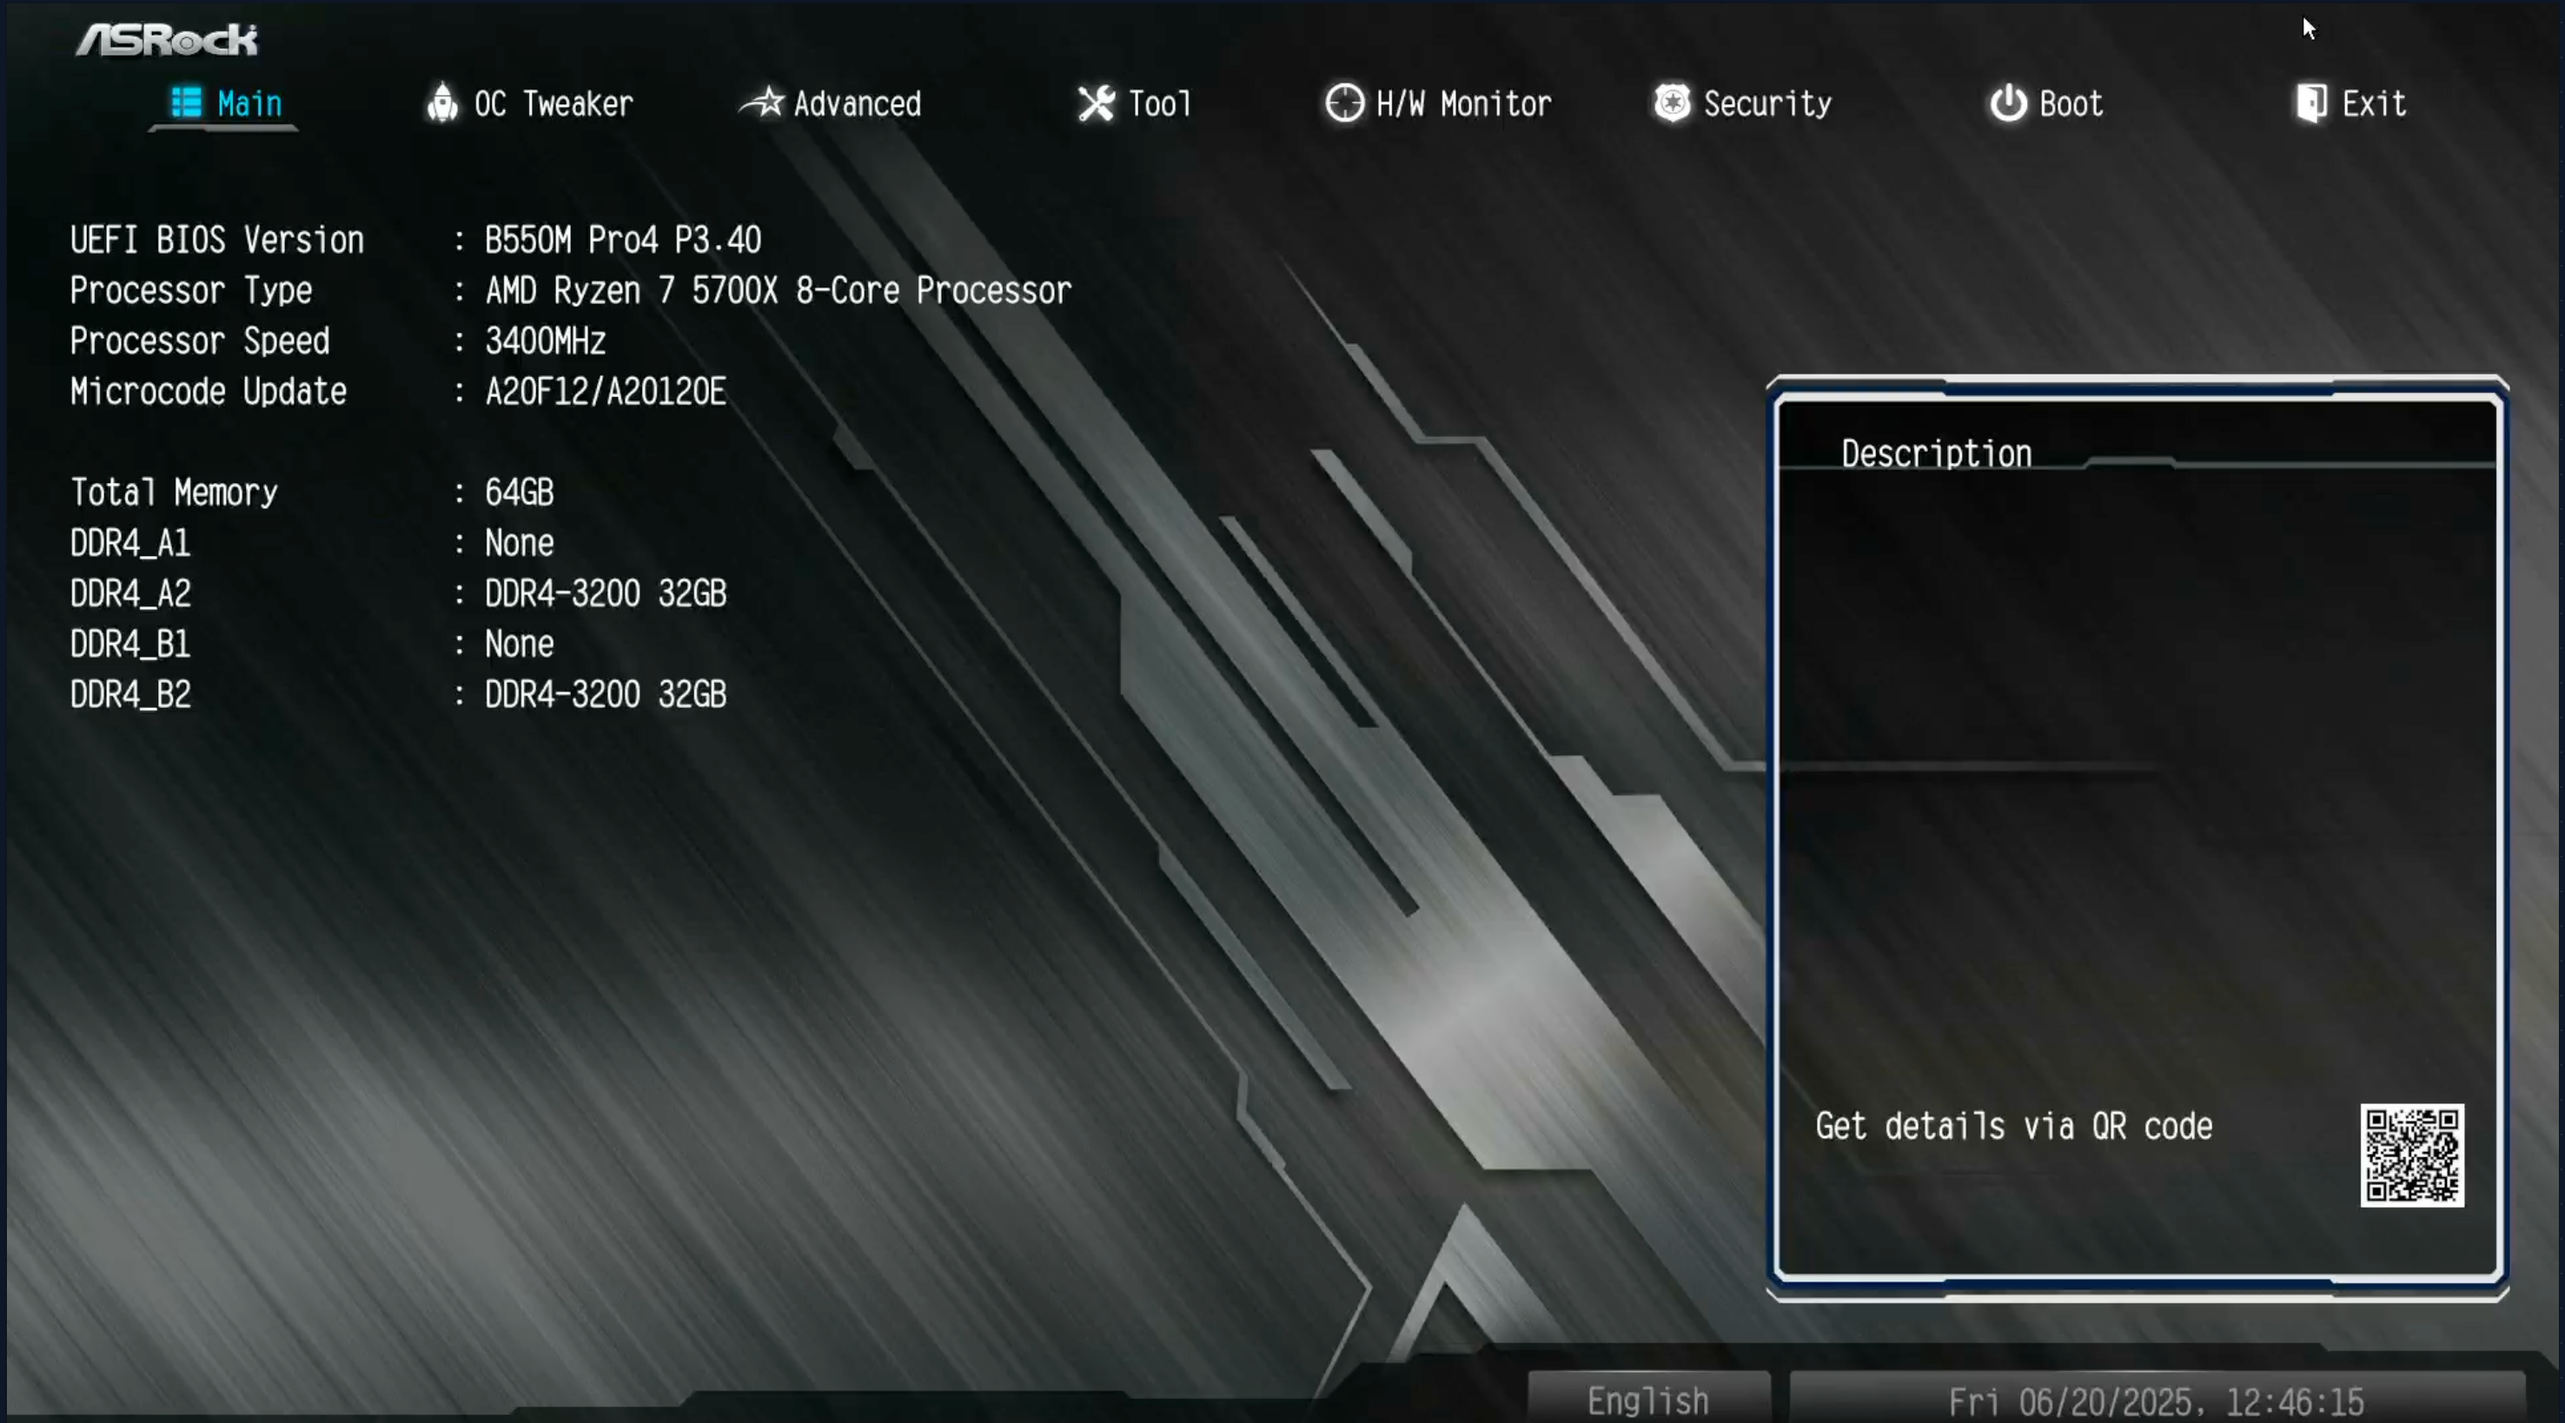
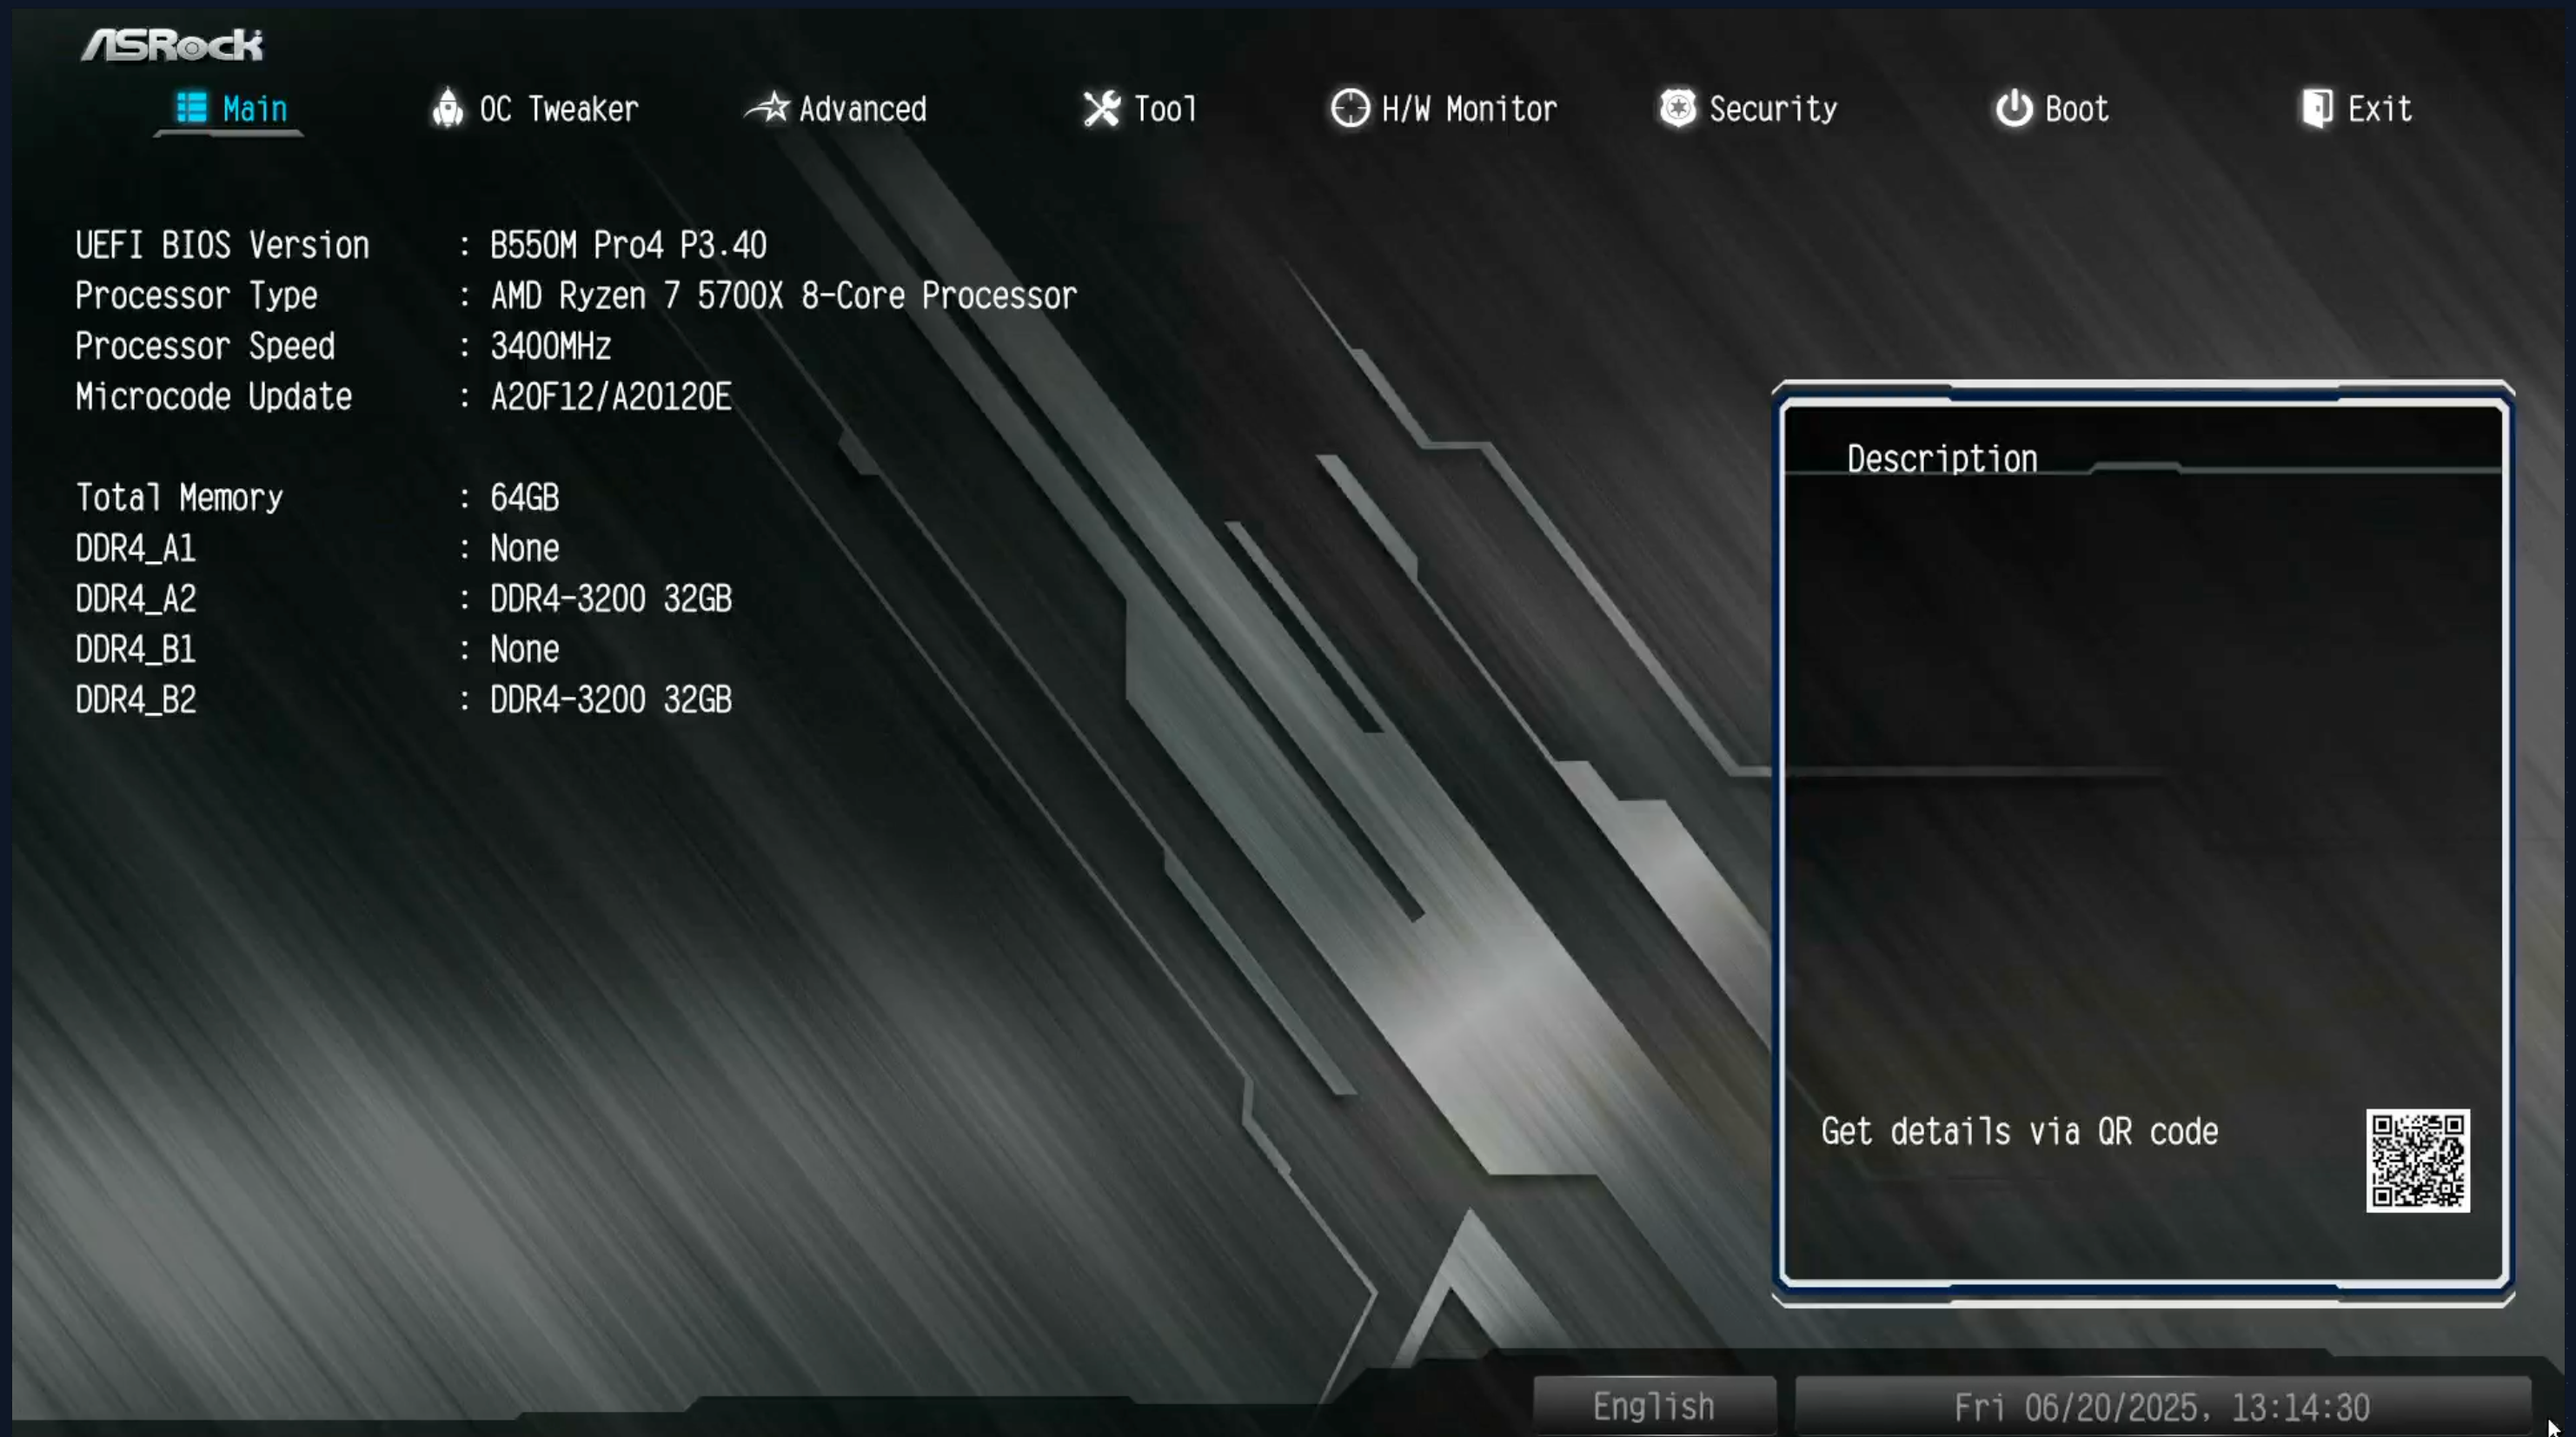
u

diff --git a/BIOS/BIOS.md b/BIOS/BIOS.md
@@ -1,38 +1,38 @@
-# My Cool Project
+# BIOS
 
-Here’s a little workflow:
+Set as shown:
 
-```mermaid
-graph TD
-  A[Prepare env] --> B[Run tests]
-  B --> C{All green?}
-  C -- yes --> D[Deploy]
-  C -- no --> E[Fix bugs]
-```
+## Main
+Ensure BIOS version is the same accross all units.
+[Get BIOS versions here](https://www.asrock.com/mb/AMD/B550M%20Pro4/index.asp#BIOS)
+![Screenshot](./images/Main.png)
 
-And here’s the install script:
+### Time
 
-```bash
-#!/usr/bin/env bash
-set -e
+Make sure time is accurate. Timezone diffrences may affect hh:mm:ss even is date is correct.
 
-echo "Updating package list…"
-sudo apt update
-
-echo "Installing nginx…"
-sudo apt install -y nginx
-
-echo "Done!"
-```
+![Screenshot](./images/Time.png)
 
 ## Advanced
 
 ![Screenshot](./images/Advanced.png)
 
-### Onboard Devices
-
-![Screenshot](./images/Advanced/Onboard_Devices.png)
-
 ### PCI
 
-![Screenshot](./images/Advanced/PCI.png)
+![Screenshot](./images/Advanced-PCI.png)
+
+### Onboard Devices
+
+![Screenshot](./images/Advanced-Onboard_Devices.png)
+
+### Storage
+
+![Screenshot](./images/Advanced-Storage.png)
+
+### ACPI
+
+![Screenshot](./images/Advanced-ACPI.png)
+
+### AMD PBS
+
+![Screenshot](./images/Advanced-AMD_PBS.png)

diff --git a/README.md b/README.md
@@ -1,4 +1,4 @@
-# My Cool Project
+# Template
 
 Here’s a little workflow:
 
